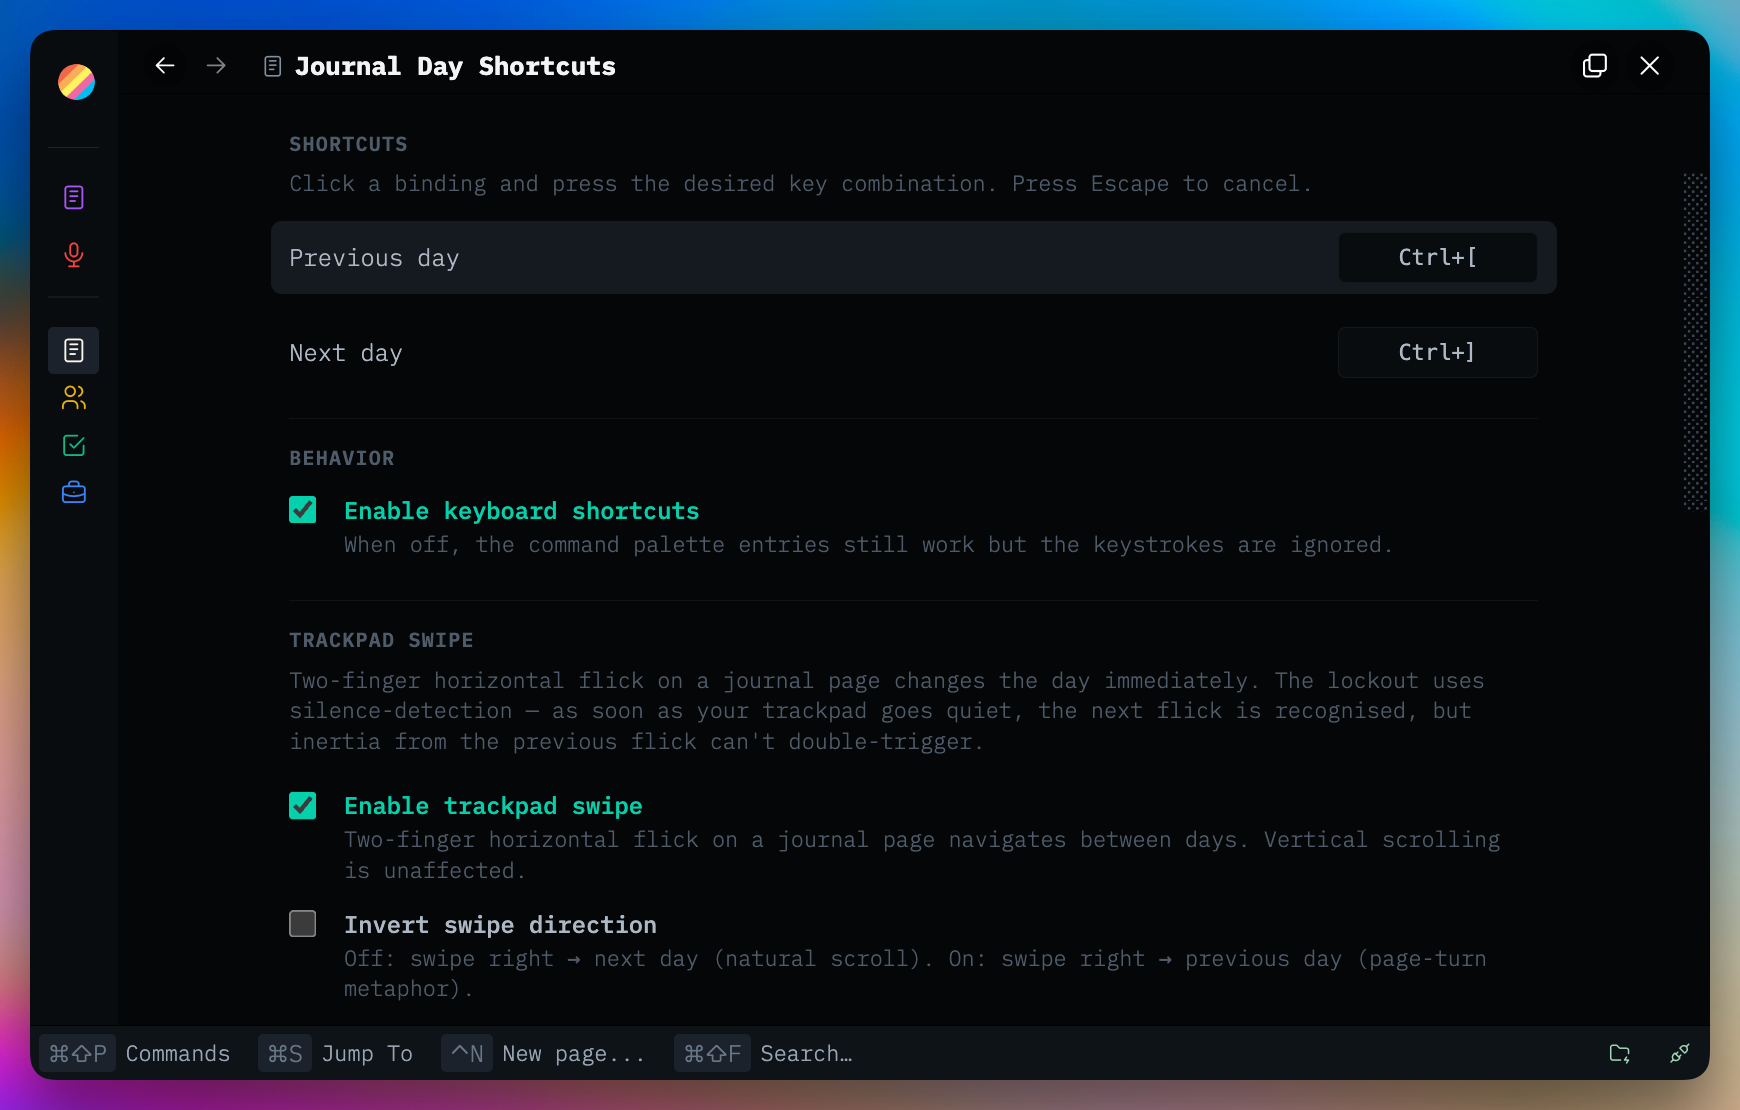
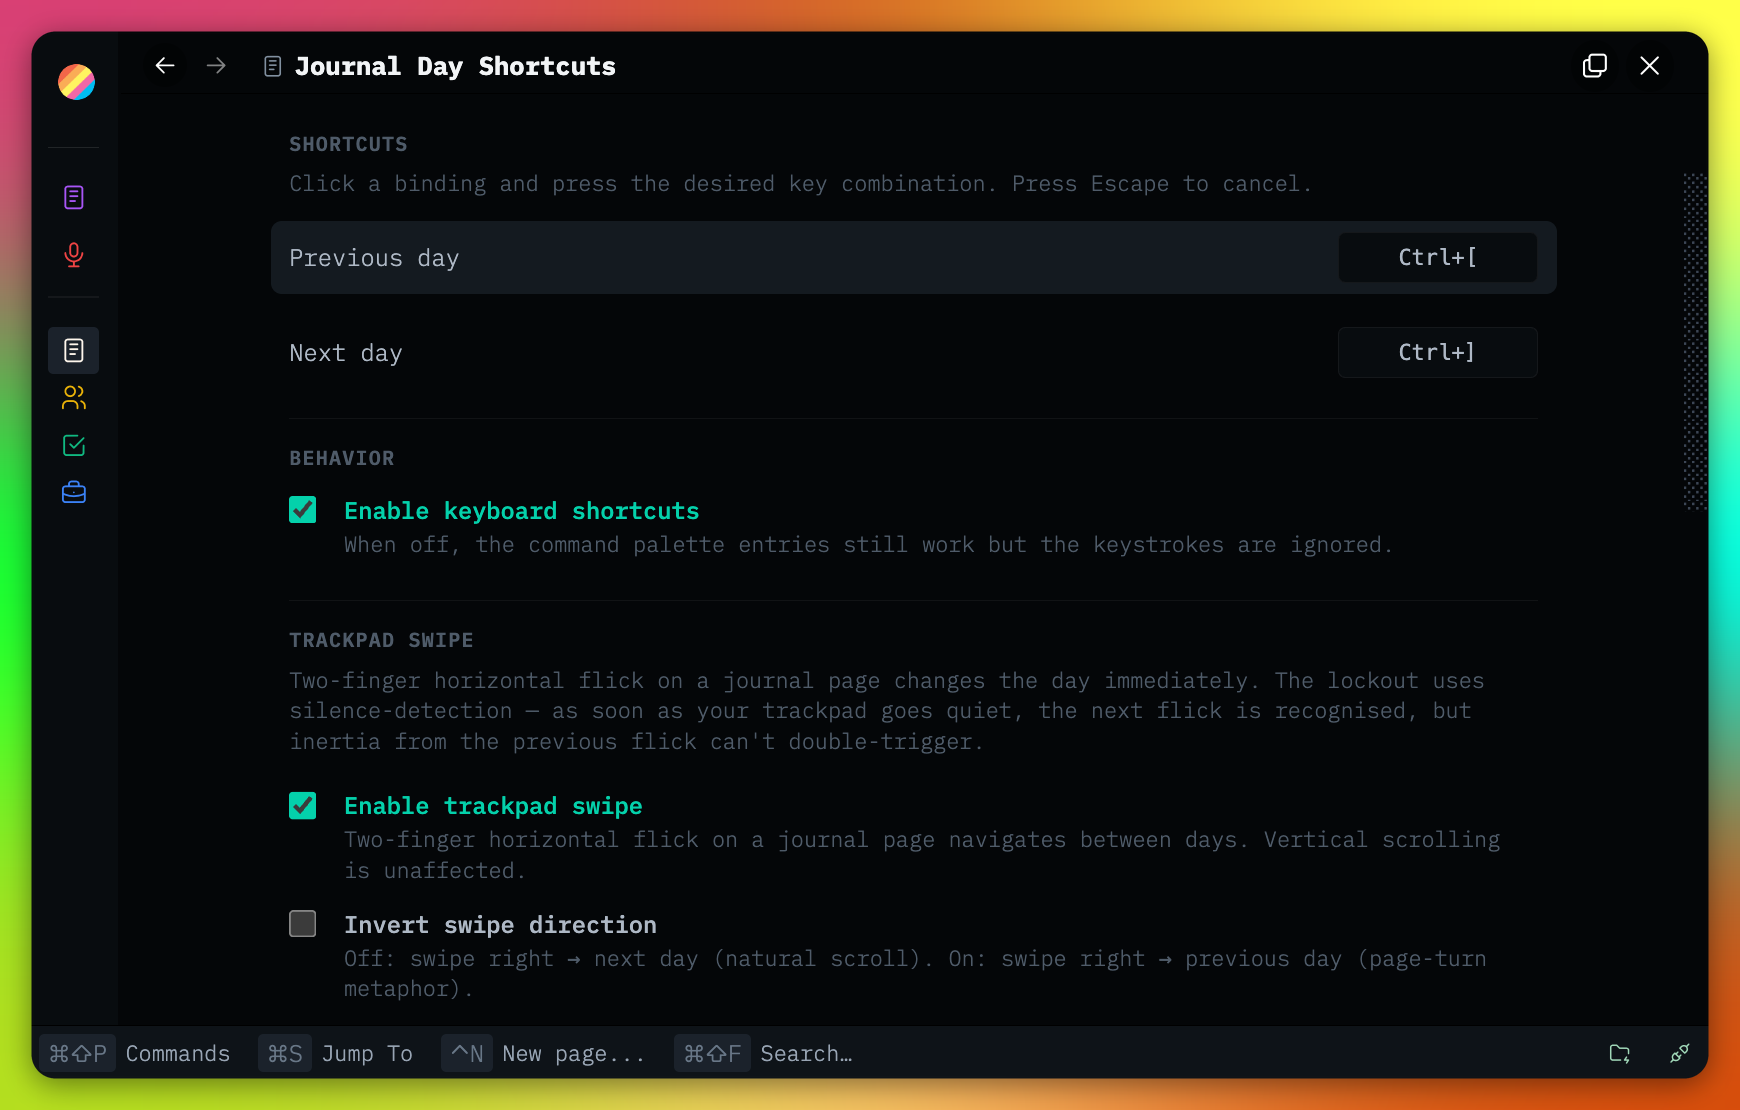
Sync install package from thymer-plugins@49f3be8

Changed region(s): [[0.0, 0.0, 1.0, 1.0]]

diff --git a/README.md b/README.md
@@ -29,7 +29,9 @@ Enjoy! 🙏
 
 ## 📦 Install
 
-**Recommended:** Use the [Thymer Plugins Manager](https://github.com/ahpatel/thymer-plugins-manager) and install via [this repo's URL](https://github.com/akaready/thymer-journal-day-shortcuts) for automatic updates.
+**Recommended:** In Thymer, open **Plugins → Add plugin → Install from URL**, paste `https://github.com/akaready/thymer-journal-day-shortcuts`, then **Load Plugin** → **Install**. Updates appear under **Plugins → Check for updates**.
+
+**Plugins Manager:** Use the [Thymer Plugins Manager](https://github.com/ahpatel/thymer-plugins-manager) and install via [this repo's URL](https://github.com/akaready/thymer-journal-day-shortcuts) for automatic updates.
 
 **Manual:** copy <a href="plugin.js" target="_blank" rel="noopener noreferrer"><code>plugin.js</code></a> and <a href="plugin.json" target="_blank" rel="noopener noreferrer"><code>plugin.json</code></a> from this repo into Thymer's plugin editor.
 
